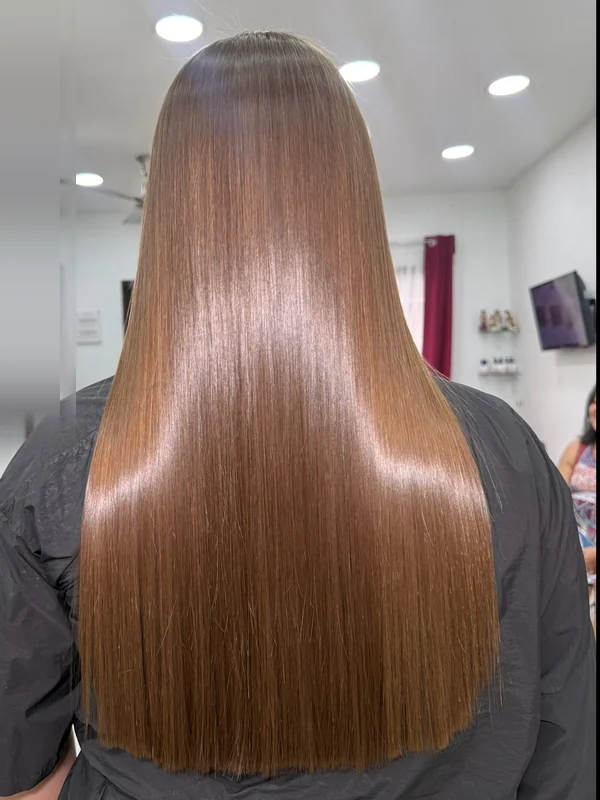
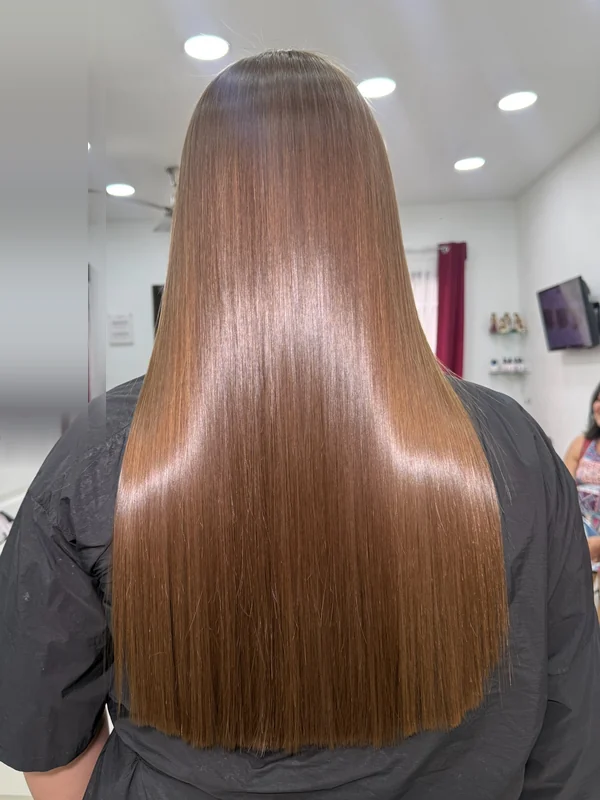
Inicio: alisamientos y balayage con aire arriba/abajo y zoom animado suave y centrado (no se cortan las puntas)

diff --git a/reservar.html b/reservar.html
@@ -10,7 +10,7 @@
 <link rel="preconnect" href="https://fonts.googleapis.com">
 <link rel="preconnect" href="https://fonts.gstatic.com" crossorigin>
 <link href="https://fonts.googleapis.com/css2?family=Montserrat:wght@300;400;500;600;700&family=Playfair+Display:ital,wght@0,400;0,500;0,600;0,700;1,400;1,500;1,600;1,700&display=swap" rel="stylesheet">
-<link rel="stylesheet" href="css/style.css?v=202610102332">
+<link rel="stylesheet" href="css/style.css?v=202610102336">
 </head>
 <body>
 
@@ -335,8 +335,8 @@
     <svg viewBox="0 0 24 24" fill="none" stroke="currentColor" stroke-width="1.6" aria-hidden="true"><path d="M4 20l1.3-4.2A7.7 7.7 0 1 1 9 18.6L4 20Z"/><path d="M8.5 9.7c0 3.3 2.7 6 6 6"/></svg>
   </a>
 
-  <script src="js/main.js?v=202610102332"></script>
-  <script src="js/services-data.js?v=202610102332"></script>
-  <script src="js/booking.js?v=202610102332"></script>
+  <script src="js/main.js?v=202610102336"></script>
+  <script src="js/services-data.js?v=202610102336"></script>
+  <script src="js/booking.js?v=202610102336"></script>
 </body>
 </html>

diff --git a/index.html b/index.html
@@ -17,7 +17,7 @@
 <link rel="preconnect" href="https://fonts.googleapis.com">
 <link rel="preconnect" href="https://fonts.gstatic.com" crossorigin>
 <link href="https://fonts.googleapis.com/css2?family=Montserrat:wght@300;400;500;600;700&family=Playfair+Display:ital,wght@0,400;0,500;0,600;0,700;1,400;1,500;1,600;1,700&display=swap" rel="stylesheet">
-<link rel="stylesheet" href="css/style.css?v=202610102332">
+<link rel="stylesheet" href="css/style.css?v=202610102336">
 </head>
 <body>
 
@@ -342,6 +342,6 @@
     <svg viewBox="0 0 24 24" fill="none" stroke="currentColor" stroke-width="1.6" aria-hidden="true"><path d="M4 20l1.3-4.2A7.7 7.7 0 1 1 9 18.6L4 20Z"/><path d="M8.5 9.7c0 3.3 2.7 6 6 6"/></svg>
   </a>
 
-  <script src="js/main.js?v=202610102332"></script>
+  <script src="js/main.js?v=202610102336"></script>
 </body>
 </html>

diff --git a/productos.html b/productos.html
@@ -10,7 +10,7 @@
 <link rel="preconnect" href="https://fonts.googleapis.com">
 <link rel="preconnect" href="https://fonts.gstatic.com" crossorigin>
 <link href="https://fonts.googleapis.com/css2?family=Montserrat:wght@300;400;500;600;700&family=Playfair+Display:ital,wght@0,400;0,500;0,600;0,700;1,400;1,500;1,600;1,700&display=swap" rel="stylesheet">
-<link rel="stylesheet" href="css/style.css?v=202610102332">
+<link rel="stylesheet" href="css/style.css?v=202610102336">
 </head>
 <body>
 
@@ -178,6 +178,6 @@
     <svg viewBox="0 0 24 24" fill="none" stroke="currentColor" stroke-width="1.6" aria-hidden="true"><path d="M4 20l1.3-4.2A7.7 7.7 0 1 1 9 18.6L4 20Z"/><path d="M8.5 9.7c0 3.3 2.7 6 6 6"/></svg>
   </a>
 
-  <script src="js/main.js?v=202610102332"></script>
+  <script src="js/main.js?v=202610102336"></script>
 </body>
 </html>

diff --git a/servicios-alisamientos.html b/servicios-alisamientos.html
@@ -10,7 +10,7 @@
 <link rel="preconnect" href="https://fonts.googleapis.com">
 <link rel="preconnect" href="https://fonts.gstatic.com" crossorigin>
 <link href="https://fonts.googleapis.com/css2?family=Montserrat:wght@300;400;500;600;700&family=Playfair+Display:ital,wght@0,400;0,500;0,600;0,700;1,400;1,500;1,600;1,700&display=swap" rel="stylesheet">
-<link rel="stylesheet" href="css/style.css?v=202610102332">
+<link rel="stylesheet" href="css/style.css?v=202610102336">
 </head>
 <body>
 
@@ -335,6 +335,6 @@
     <svg viewBox="0 0 24 24" fill="none" stroke="currentColor" stroke-width="1.6" aria-hidden="true"><path d="M4 20l1.3-4.2A7.7 7.7 0 1 1 9 18.6L4 20Z"/><path d="M8.5 9.7c0 3.3 2.7 6 6 6"/></svg>
   </a>
 
-  <script src="js/main.js?v=202610102332"></script>
+  <script src="js/main.js?v=202610102336"></script>
 </body>
 </html>

diff --git a/servicios-cirugia-capilar.html b/servicios-cirugia-capilar.html
@@ -10,7 +10,7 @@
 <link rel="preconnect" href="https://fonts.googleapis.com">
 <link rel="preconnect" href="https://fonts.gstatic.com" crossorigin>
 <link href="https://fonts.googleapis.com/css2?family=Montserrat:wght@300;400;500;600;700&family=Playfair+Display:ital,wght@0,400;0,500;0,600;0,700;1,400;1,500;1,600;1,700&display=swap" rel="stylesheet">
-<link rel="stylesheet" href="css/style.css?v=202610102332">
+<link rel="stylesheet" href="css/style.css?v=202610102336">
 </head>
 <body>
 
@@ -274,6 +274,6 @@
     <svg viewBox="0 0 24 24" fill="none" stroke="currentColor" stroke-width="1.6" aria-hidden="true"><path d="M4 20l1.3-4.2A7.7 7.7 0 1 1 9 18.6L4 20Z"/><path d="M8.5 9.7c0 3.3 2.7 6 6 6"/></svg>
   </a>
 
-  <script src="js/main.js?v=202610102332"></script>
+  <script src="js/main.js?v=202610102336"></script>
 </body>
 </html>

diff --git a/servicios-color-parejo.html b/servicios-color-parejo.html
@@ -10,7 +10,7 @@
 <link rel="preconnect" href="https://fonts.googleapis.com">
 <link rel="preconnect" href="https://fonts.gstatic.com" crossorigin>
 <link href="https://fonts.googleapis.com/css2?family=Montserrat:wght@300;400;500;600;700&family=Playfair+Display:ital,wght@0,400;0,500;0,600;0,700;1,400;1,500;1,600;1,700&display=swap" rel="stylesheet">
-<link rel="stylesheet" href="css/style.css?v=202610102332">
+<link rel="stylesheet" href="css/style.css?v=202610102336">
 </head>
 <body>
 
@@ -273,6 +273,6 @@
     <svg viewBox="0 0 24 24" fill="none" stroke="currentColor" stroke-width="1.6" aria-hidden="true"><path d="M4 20l1.3-4.2A7.7 7.7 0 1 1 9 18.6L4 20Z"/><path d="M8.5 9.7c0 3.3 2.7 6 6 6"/></svg>
   </a>
 
-  <script src="js/main.js?v=202610102332"></script>
+  <script src="js/main.js?v=202610102336"></script>
 </body>
 </html>

diff --git a/servicios-cortes.html b/servicios-cortes.html
@@ -10,7 +10,7 @@
 <link rel="preconnect" href="https://fonts.googleapis.com">
 <link rel="preconnect" href="https://fonts.gstatic.com" crossorigin>
 <link href="https://fonts.googleapis.com/css2?family=Montserrat:wght@300;400;500;600;700&family=Playfair+Display:ital,wght@0,400;0,500;0,600;0,700;1,400;1,500;1,600;1,700&display=swap" rel="stylesheet">
-<link rel="stylesheet" href="css/style.css?v=202610102332">
+<link rel="stylesheet" href="css/style.css?v=202610102336">
 </head>
 <body>
 
@@ -264,6 +264,6 @@
     <svg viewBox="0 0 24 24" fill="none" stroke="currentColor" stroke-width="1.6" aria-hidden="true"><path d="M4 20l1.3-4.2A7.7 7.7 0 1 1 9 18.6L4 20Z"/><path d="M8.5 9.7c0 3.3 2.7 6 6 6"/></svg>
   </a>
 
-  <script src="js/main.js?v=202610102332"></script>
+  <script src="js/main.js?v=202610102336"></script>
 </body>
 </html>

diff --git a/servicios-rizos.html b/servicios-rizos.html
@@ -10,7 +10,7 @@
 <link rel="preconnect" href="https://fonts.googleapis.com">
 <link rel="preconnect" href="https://fonts.gstatic.com" crossorigin>
 <link href="https://fonts.googleapis.com/css2?family=Montserrat:wght@300;400;500;600;700&family=Playfair+Display:ital,wght@0,400;0,500;0,600;0,700;1,400;1,500;1,600;1,700&display=swap" rel="stylesheet">
-<link rel="stylesheet" href="css/style.css?v=202610102332">
+<link rel="stylesheet" href="css/style.css?v=202610102336">
 </head>
 <body>
 
@@ -239,6 +239,6 @@
     <svg viewBox="0 0 24 24" fill="none" stroke="currentColor" stroke-width="1.6" aria-hidden="true"><path d="M4 20l1.3-4.2A7.7 7.7 0 1 1 9 18.6L4 20Z"/><path d="M8.5 9.7c0 3.3 2.7 6 6 6"/></svg>
   </a>
 
-  <script src="js/main.js?v=202610102332"></script>
+  <script src="js/main.js?v=202610102336"></script>
 </body>
 </html>

diff --git a/servicios-tecnica-color.html b/servicios-tecnica-color.html
@@ -10,7 +10,7 @@
 <link rel="preconnect" href="https://fonts.googleapis.com">
 <link rel="preconnect" href="https://fonts.gstatic.com" crossorigin>
 <link href="https://fonts.googleapis.com/css2?family=Montserrat:wght@300;400;500;600;700&family=Playfair+Display:ital,wght@0,400;0,500;0,600;0,700;1,400;1,500;1,600;1,700&display=swap" rel="stylesheet">
-<link rel="stylesheet" href="css/style.css?v=202610102332">
+<link rel="stylesheet" href="css/style.css?v=202610102336">
 </head>
 <body>
 
@@ -347,6 +347,6 @@
     <svg viewBox="0 0 24 24" fill="none" stroke="currentColor" stroke-width="1.6" aria-hidden="true"><path d="M4 20l1.3-4.2A7.7 7.7 0 1 1 9 18.6L4 20Z"/><path d="M8.5 9.7c0 3.3 2.7 6 6 6"/></svg>
   </a>
 
-  <script src="js/main.js?v=202610102332"></script>
+  <script src="js/main.js?v=202610102336"></script>
 </body>
 </html>

diff --git a/servicios-tratamientos-capilares.html b/servicios-tratamientos-capilares.html
@@ -10,7 +10,7 @@
 <link rel="preconnect" href="https://fonts.googleapis.com">
 <link rel="preconnect" href="https://fonts.gstatic.com" crossorigin>
 <link href="https://fonts.googleapis.com/css2?family=Montserrat:wght@300;400;500;600;700&family=Playfair+Display:ital,wght@0,400;0,500;0,600;0,700;1,400;1,500;1,600;1,700&display=swap" rel="stylesheet">
-<link rel="stylesheet" href="css/style.css?v=202610102332">
+<link rel="stylesheet" href="css/style.css?v=202610102336">
 </head>
 <body>
 
@@ -409,6 +409,6 @@
     <svg viewBox="0 0 24 24" fill="none" stroke="currentColor" stroke-width="1.6" aria-hidden="true"><path d="M4 20l1.3-4.2A7.7 7.7 0 1 1 9 18.6L4 20Z"/><path d="M8.5 9.7c0 3.3 2.7 6 6 6"/></svg>
   </a>
 
-  <script src="js/main.js?v=202610102332"></script>
+  <script src="js/main.js?v=202610102336"></script>
 </body>
 </html>

diff --git a/servicios.html b/servicios.html
@@ -10,7 +10,7 @@
 <link rel="preconnect" href="https://fonts.googleapis.com">
 <link rel="preconnect" href="https://fonts.gstatic.com" crossorigin>
 <link href="https://fonts.googleapis.com/css2?family=Montserrat:wght@300;400;500;600;700&family=Playfair+Display:ital,wght@0,400;0,500;0,600;0,700;1,400;1,500;1,600;1,700&display=swap" rel="stylesheet">
-<link rel="stylesheet" href="css/style.css?v=202610102332">
+<link rel="stylesheet" href="css/style.css?v=202610102336">
 </head>
 <body>
 
@@ -269,6 +269,6 @@
     <svg viewBox="0 0 24 24" fill="none" stroke="currentColor" stroke-width="1.6" aria-hidden="true"><path d="M4 20l1.3-4.2A7.7 7.7 0 1 1 9 18.6L4 20Z"/><path d="M8.5 9.7c0 3.3 2.7 6 6 6"/></svg>
   </a>
 
-  <script src="js/main.js?v=202610102332"></script>
+  <script src="js/main.js?v=202610102336"></script>
 </body>
 </html>

diff --git a/sobre-nosotros.html b/sobre-nosotros.html
@@ -10,7 +10,7 @@
 <link rel="preconnect" href="https://fonts.googleapis.com">
 <link rel="preconnect" href="https://fonts.gstatic.com" crossorigin>
 <link href="https://fonts.googleapis.com/css2?family=Montserrat:wght@300;400;500;600;700&family=Playfair+Display:ital,wght@0,400;0,500;0,600;0,700;1,400;1,500;1,600;1,700&display=swap" rel="stylesheet">
-<link rel="stylesheet" href="css/style.css?v=202610102332">
+<link rel="stylesheet" href="css/style.css?v=202610102336">
 </head>
 <body>
 
@@ -183,6 +183,6 @@
     <svg viewBox="0 0 24 24" fill="none" stroke="currentColor" stroke-width="1.6" aria-hidden="true"><path d="M4 20l1.3-4.2A7.7 7.7 0 1 1 9 18.6L4 20Z"/><path d="M8.5 9.7c0 3.3 2.7 6 6 6"/></svg>
   </a>
 
-  <script src="js/main.js?v=202610102332"></script>
+  <script src="js/main.js?v=202610102336"></script>
 </body>
 </html>
